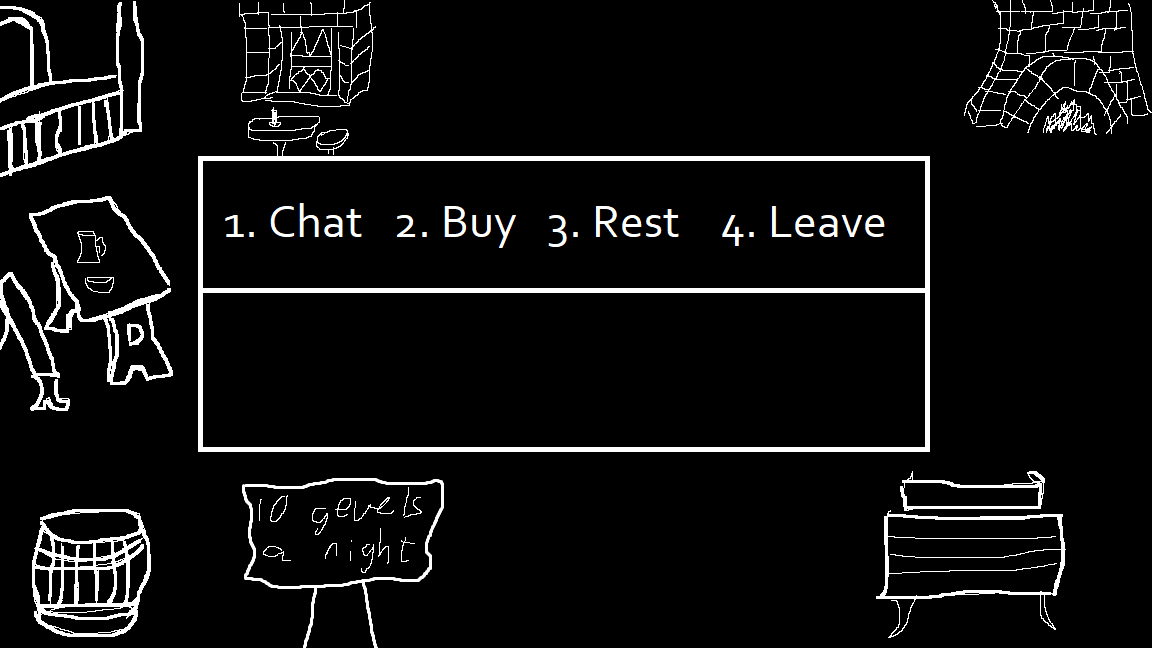
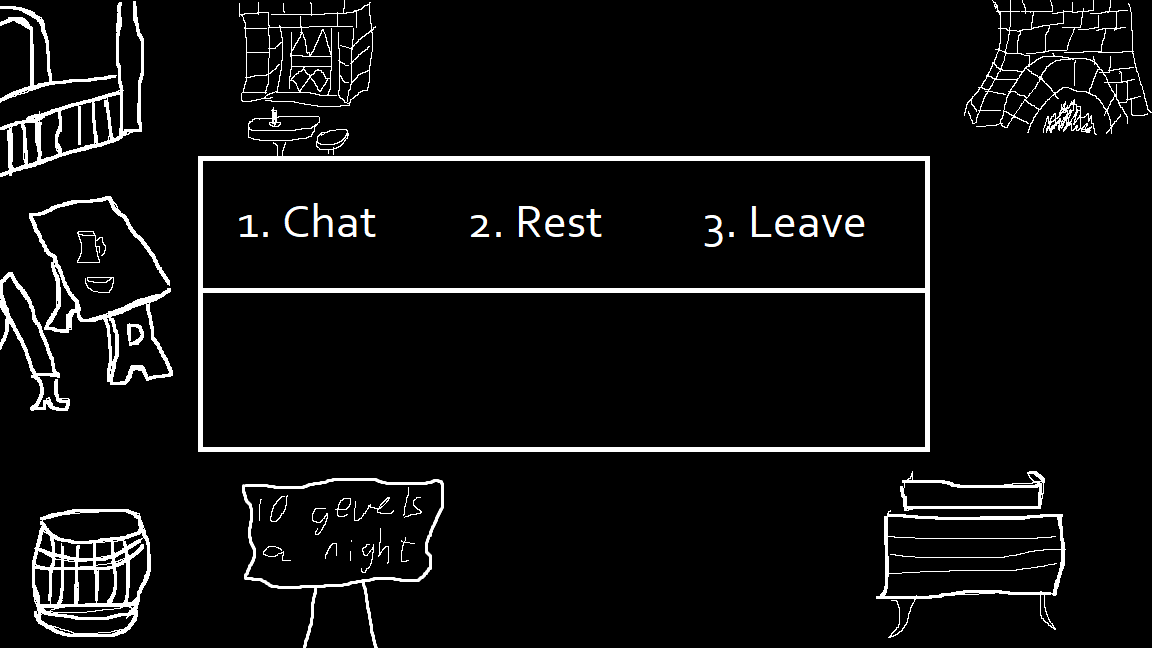
Remove: (Inn) buy feature

Changed region(s): [[0.1875, 0.3086, 0.7812, 0.4012]]

diff --git a/The-Wandering-Lark/Scenes/inn.py b/The-Wandering-Lark/Scenes/inn.py
@@ -81,9 +81,8 @@ lot to toil these days.\"""")
             self.reset_text()
             self.chat()
         elif key == pygame.K_2:
-            pass #buy
-        elif key == pygame.K_3:
             self.rest()
-        elif key == pygame.K_4:
+        elif key == pygame.K_3:
             self.reset_text()
             self.change_scene("caerham")
+       
